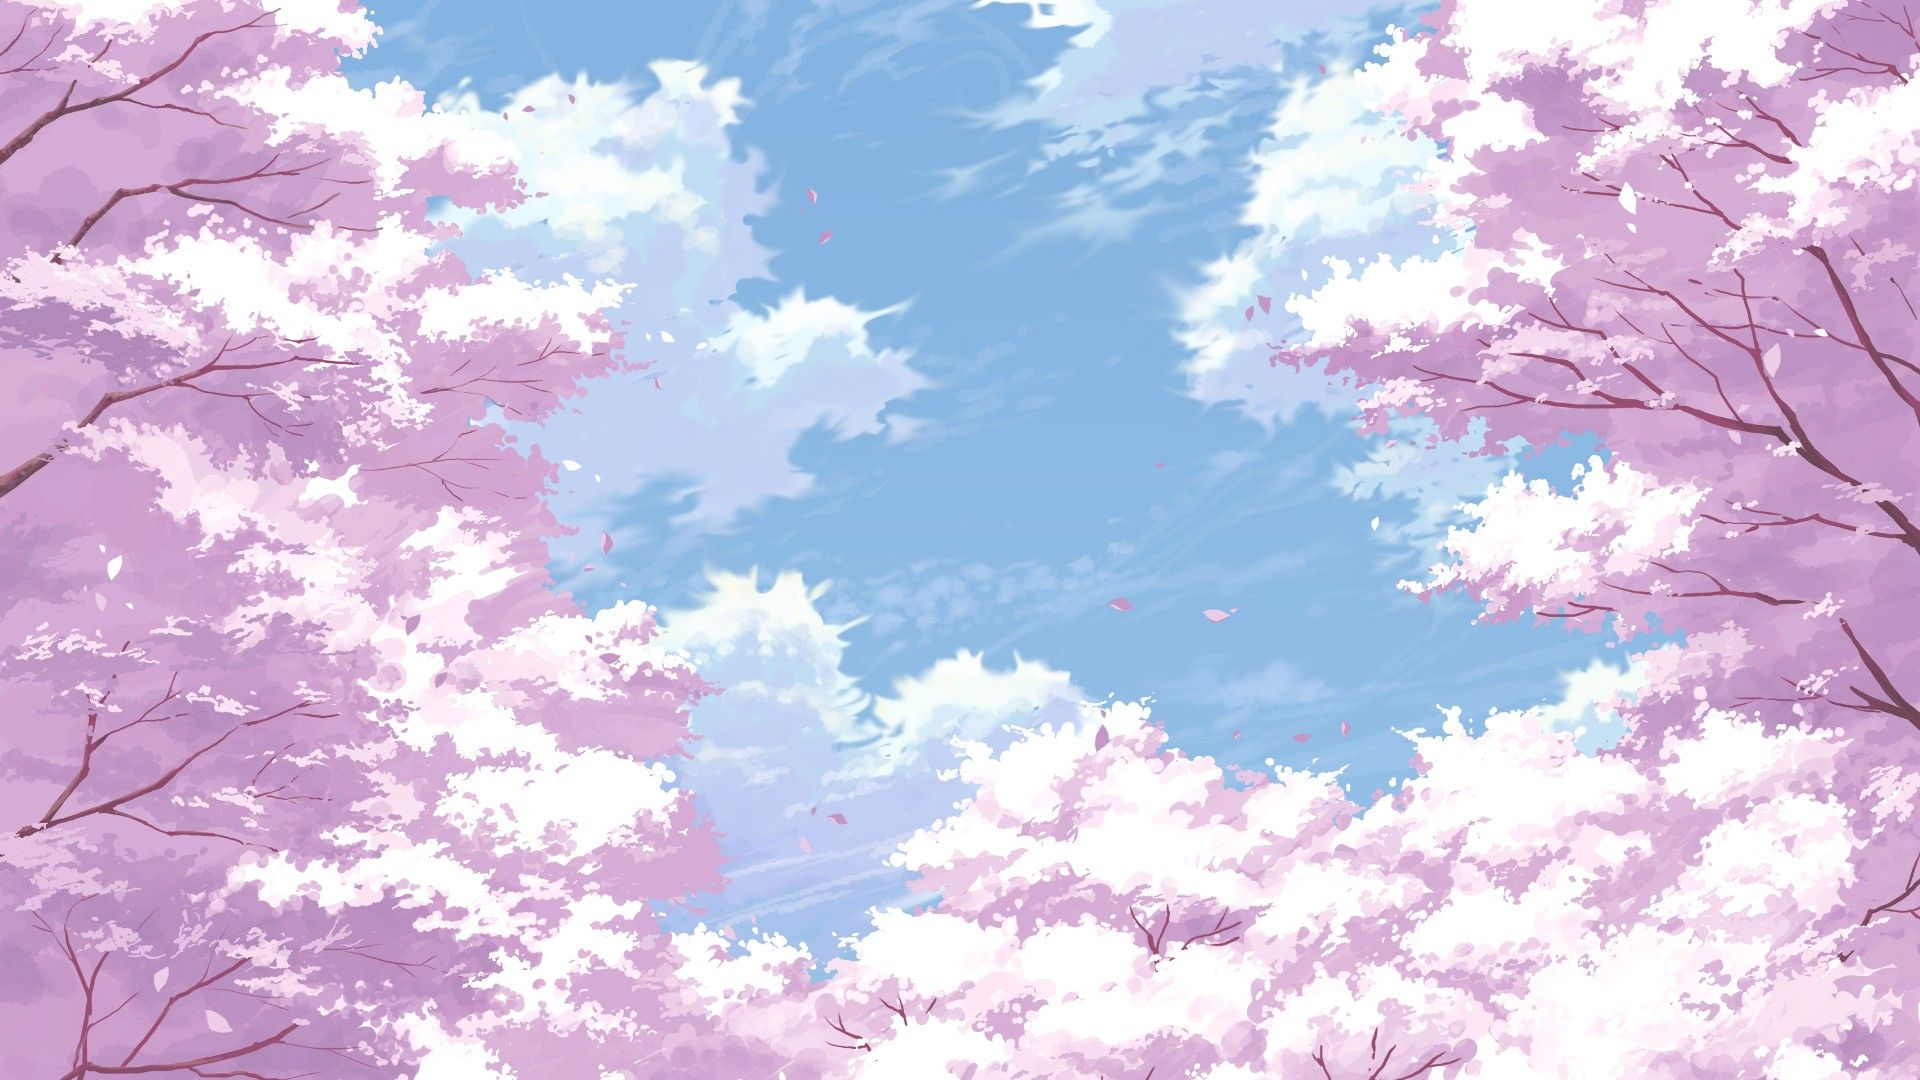
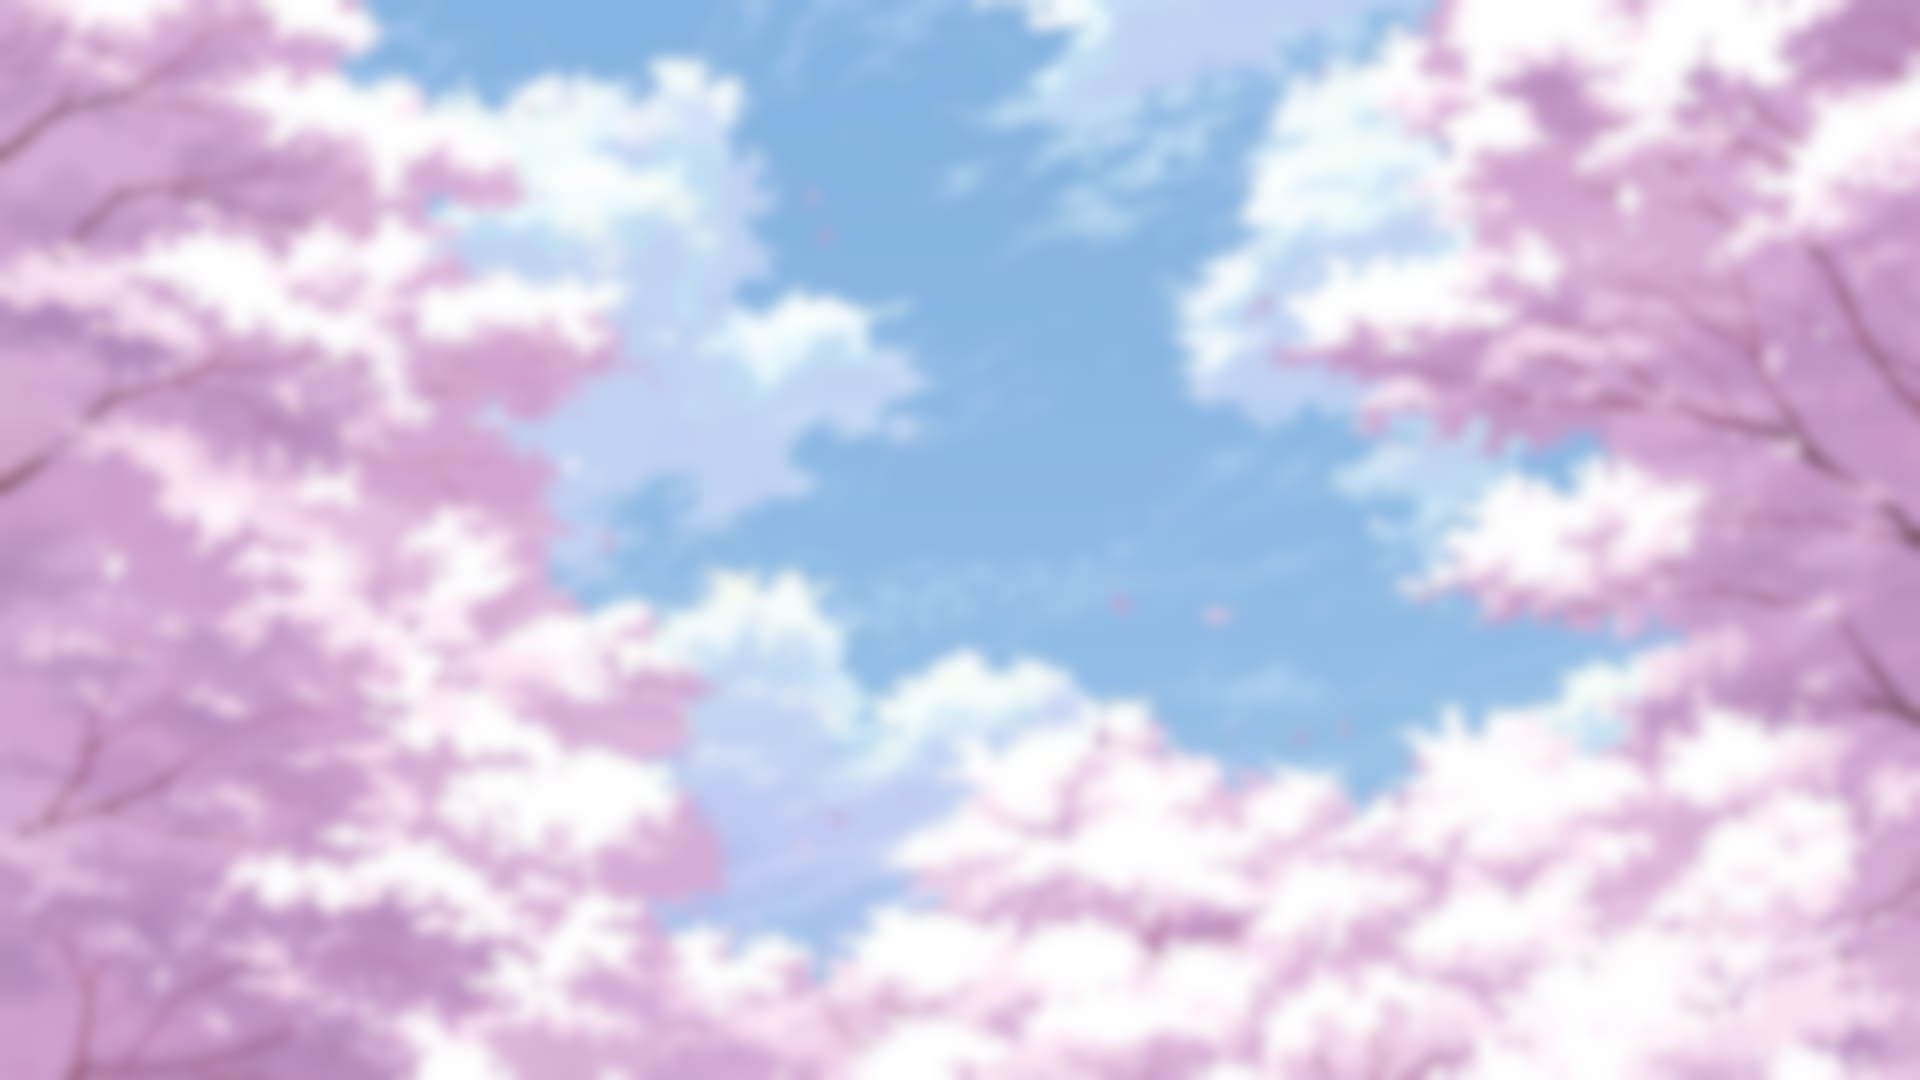
Update

diff --git a/socials.html b/socials.html
@@ -5,6 +5,12 @@
     <meta name="viewport" content="width=device-width, initial-scale=1.0">
     <title>Social Media - Slofs</title>
     <link rel="stylesheet" href="css/style.css">
+    <script src="script.js"></script>
+
+    <link rel="preconnect" href="https://fonts.googleapis.com">
+    <link rel="preconnect" href="https://fonts.gstatic.com" crossorigin>
+    <link href="https://fonts.googleapis.com/css2?family=Kanit:ital,wght@0,100;0,200;0,300;0,400;0,500;0,600;0,700;0,800;0,900;1,100;1,200;1,300;1,400;1,500;1,600;1,700;1,800;1,900&family=New+Amsterdam&display=swap" rel="stylesheet">
+
 </head>
 <body class="socials-page">
     <header>
@@ -37,7 +43,7 @@
 
     <section>
         <h1>Socials</h1>
-        <p>View my social medias.</p>
+        <p>View my socials & more.</p>
         <div class="card-container">
             <div class="card">
                 <div class="icon">
@@ -78,15 +84,28 @@
                 </div>
                 <a href="https://www.tiktok.com/@slofs_" class="card-link">Follow me</a>
             </div>
+            <div class="card">
+                <div class="icon">
+                    <svg viewBox="0 0 24 24" height="24" width="24" xmlns="http://www.w3.org/2000/svg">
+                        <!-- TikTok SVG path -->
+                        <path d="M11.979 0C5.678 0 .511 4.86.022 11.037l6.432 2.658c.545-.371 1.203-.59 1.912-.59.063 0 .125.004.188.006l2.861-4.142V8.91c0-2.495 2.028-4.524 4.524-4.524 2.494 0 4.524 2.031 4.524 4.527s-2.03 4.525-4.524 4.525h-.105l-4.076 2.911c0 .052.004.105.004.159 0 1.875-1.515 3.396-3.39 3.396-1.635 0-3.016-1.173-3.331-2.727L.436 15.27C1.862 20.307 6.486 24 11.979 24c6.627 0 11.999-5.373 11.999-12S18.605 0 11.979 0zM7.54 18.21l-1.473-.61c.262.543.714.999 1.314 1.25 1.297.539 2.793-.076 3.332-1.375.263-.63.264-1.319.005-1.949s-.75-1.121-1.377-1.383c-.624-.26-1.29-.249-1.878-.03l1.523.63c.956.4 1.409 1.5 1.009 2.455-.397.957-1.497 1.41-2.454 1.012H7.54zm11.415-9.303c0-1.662-1.353-3.015-3.015-3.015-1.665 0-3.015 1.353-3.015 3.015 0 1.665 1.35 3.015 3.015 3.015 1.663 0 3.015-1.35 3.015-3.015zm-5.273-.005c0-1.252 1.013-2.266 2.265-2.266 1.249 0 2.266 1.014 2.266 2.266 0 1.251-1.017 2.265-2.266 2.265-1.253 0-2.265-1.014-2.265-2.265z"></path>
+                    </svg>
+                </div>
+                <strong>Steam</strong>
+                <div class="card__body">
+                    My Steam.
+                </div>
+                <a href="https://steamcommunity.com/id/slofs/" class="card-link">Add me</a>
+            </div>
         </div>
     </section>
-    
-    
 
-    <footer>
-        <p>&copy; 2024 Slofs</p>
-    </footer>
-
-    <script src="script.js"></script>
 </body>
+
+<footer>
+    
+    &copy; 2024 Slofs
+
+</footer>
+
 </html>

diff --git a/hobbies.html b/hobbies.html
@@ -5,6 +5,12 @@
     <meta name="viewport" content="width=device-width, initial-scale=1.0">
     <title>My Hobbies - Slofs</title>
     <link rel="stylesheet" href="css/style.css">
+    <script src="script.js"></script>
+
+    <link rel="preconnect" href="https://fonts.googleapis.com">
+    <link rel="preconnect" href="https://fonts.gstatic.com" crossorigin>
+    <link href="https://fonts.googleapis.com/css2?family=Kanit:ital,wght@0,100;0,200;0,300;0,400;0,500;0,600;0,700;0,800;0,900;1,100;1,200;1,300;1,400;1,500;1,600;1,700;1,800;1,900&family=New+Amsterdam&display=swap" rel="stylesheet">
+
 </head>
 <body class="hobbies-page">
     <header>
@@ -45,28 +51,30 @@
                 <div class="card__body">
                     Placeholder.
                 </div>
-                <a href="https://upload.wikimedia.org/wikipedia/en/9/9a/Trollface_non-free.png" class="card-link">Peek-a-boo</a>
+                <a href="images/slofs.jpg" class="card-link">Peek-a-boo</a>
             </div>
             <div class="card">
                 <strong>Hobby</strong>
                 <div class="card__body">
                     Placeholder.
                 </div>
-                <a href="https://upload.wikimedia.org/wikipedia/en/9/9a/Trollface_non-free.png" class="card-link">Peek-a-boo</a>
+                <a href="images/slofs.jpg" class="card-link">Peek-a-boo</a>
             </div>
             <div class="card">
                 <strong>Hobby</strong>
                 <div class="card__body">
                     Placeholder.
                 </div>
-                <a href="https://upload.wikimedia.org/wikipedia/en/9/9a/Trollface_non-free.png" class="card-link">Peek-a-boo</a>
+                <a href="images/slofs.jpg" class="card-link">Peek-a-boo</a>
             </div>
     </section>
 
-    <footer>
-        <p>&copy; 2024 Slofs</p>
-    </footer>
-
-    <script src="script.js"></script>
 </body>
+
+<footer>
+    
+    &copy; 2024 Slofs
+
+</footer>
+
 </html>

diff --git a/css/style.css b/css/style.css
@@ -1,10 +1,19 @@
 body {
-    font-family: Arial, sans-serif;
+    font-family: "Kanit", sans-serif;
+    font-weight: 600;
+    font-style: normal;
     margin: 0;
     padding: 0;
-    background-color: #f0f0f0;
+    background-color: #ffffff00;
     color: #333;
+    background-image: url("../images/2.png");
+    background-repeat: no-repeat;
+    background-position: center;
+    background-attachment: fixed;
+    background-size: cover;
 }
+
+
 
 header {
     background-color: #333;
@@ -17,6 +26,16 @@ nav {
     justify-content: center;
     align-items: center;
 }
+
+img {
+    display: block;
+    margin-left: auto;
+    margin-right: auto;
+    width: 50%;
+    filter: drop-shadow(0 0 0.75rem #dc143c);
+
+}
+
 
 .button-container {
     display: flex;
@@ -73,6 +92,13 @@ footer {
 h1 {
     font-size: 2rem;
     margin-bottom: 1rem;
+    text-align: center;
+}
+
+p {
+    font-size: 2rem;
+    margin-bottom: 1rem;
+    text-align: center;
 }
 
 ul {
@@ -165,22 +191,22 @@ a:hover {
   
 /* Home page icon color */
 .home-page .button-container .home-button .icon {
-    color: black;
+    color: #dc143c;
 }
   
 /* Socials page icon color */
 .socials-page .button-container .socials-button .icon {
-    color: black;
+    color: #dc143c;
 }
   
 /* Portfolio page icon color */
 .portfolio-page .button-container .portfolio-button .icon {
-    color: black;
+    color: #dc143c;
 }
   
 /* Hobbies page icon color */
 .hobbies-page .button-container .hobbies-button .icon {
-    color: black;
+    color: #dc143c70;
 }
 
 /* Card Container Styles */
@@ -194,7 +220,7 @@ a:hover {
 /* Card Styles */
 .card {
     --bg: #f7f7f8;
-    --hover-bg: #afd2f3;
+    --hover-bg: #dc143c86;
     --hover-text: #333;
     max-width: 23ch;
     text-align: center;

diff --git a/portfolio.html b/portfolio.html
@@ -5,6 +5,12 @@
     <meta name="viewport" content="width=device-width, initial-scale=1.0">
     <title>Portfolio - Slofs</title>
     <link rel="stylesheet" href="css/style.css">
+    <script src="script.js"></script>
+
+    <link rel="preconnect" href="https://fonts.googleapis.com">
+    <link rel="preconnect" href="https://fonts.gstatic.com" crossorigin>
+    <link href="https://fonts.googleapis.com/css2?family=Kanit:ital,wght@0,100;0,200;0,300;0,400;0,500;0,600;0,700;0,800;0,900;1,100;1,200;1,300;1,400;1,500;1,600;1,700;1,800;1,900&family=New+Amsterdam&display=swap" rel="stylesheet">
+
 </head>
 <body class="portfolio-page">
     <header>
@@ -51,21 +57,23 @@
                 <div class="card__body">
                     Soon to be.
                 </div>
-                <a href="https://upload.wikimedia.org/wikipedia/en/9/9a/Trollface_non-free.png" class="card-link">Peek-a-boo</a>
+                <a href="images/slofs.jpg" class="card-link">Peek-a-boo</a>
             </div>
             <div class="card">
                 <strong>Placeholder</strong>
                 <div class="card__body">
                     Soon to be.
                 </div>
-                <a href="https://upload.wikimedia.org/wikipedia/en/9/9a/Trollface_non-free.png" class="card-link">Peek-a-boo</a>
+                <a href="images/slofs.jpg" class="card-link">Peek-a-boo</a>
             </div>
     </section>
 
-    <footer>
-        <p>&copy; 2024 Slofs</p>
-    </footer>
-
-    <script src="script.js"></script>
 </body>
+
+<footer>
+    
+    &copy; 2024 Slofs
+
+</footer>
+
 </html>

diff --git a/index.html b/index.html
@@ -5,6 +5,12 @@
     <meta name="viewport" content="width=device-width, initial-scale=1.0">
     <title>Home - Slofs</title>
     <link rel="stylesheet" href="css/style.css">
+    <script src="script.js"></script>
+
+    <link rel="preconnect" href="https://fonts.googleapis.com">
+    <link rel="preconnect" href="https://fonts.gstatic.com" crossorigin>
+    <link href="https://fonts.googleapis.com/css2?family=Kanit:ital,wght@0,100;0,200;0,300;0,400;0,500;0,600;0,700;0,800;0,900;1,100;1,200;1,300;1,400;1,500;1,600;1,700;1,800;1,900&family=New+Amsterdam&display=swap" rel="stylesheet">
+
 </head>
 <body class="home-page">
     <header>
@@ -36,14 +42,21 @@
     </header>
 
     <section>
-        <h1>Welcome to My Personal Website</h1>
-        <p>This is the home page. Navigate through the sections to learn more about me.</p>
+        <h1>Slofs</h1>
+        <p>That is me.</p>
     </section>
 
-    <footer>
-        <p>&copy; 2024 Slofs</p>
-    </footer>
+    <section>
+        <img src="images/slofs.jpg">
+    </section>
 
-    <script src="script.js"></script>
+
 </body>
+
+<footer>
+
+    &copy; 2024 Slofs
+
+</footer>
+
 </html>
